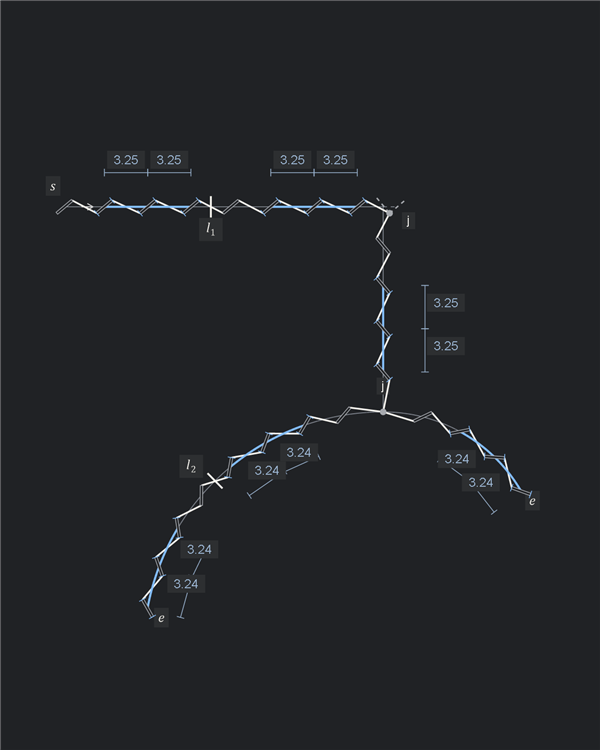
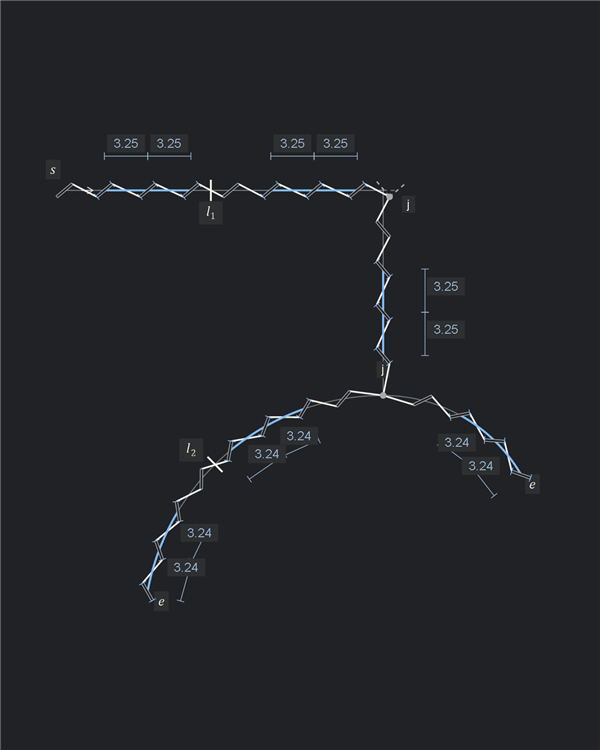
Label model solution stages and reveal repeated features together

Changed region(s): [[0.09, 0.184, 0.9, 0.828], [0.72, 0.368, 0.78, 0.4907]]

diff --git a/examples/illustrated/README.md b/examples/illustrated/README.md
@@ -160,6 +160,8 @@ Two fixed arms meet at $6^\circ$. Two outer pairs pass, the next leaves only $0.
 
 `ILL-MODEL-SOLUTION` combines L1 on a straight arm, a two-arm corner, a curved T junction and L2 on its left curved arm, at $p=3\,\mathrm{mm}$. Reserve endpoint slits, both landmark pairs, corner neighbours and the T's three nominal neighbours before fitting.
 
+Label the five steps in one consistent position: **Mark landmarks**, **Fixed landmark pairs**, **Junctions**, **Free spans**, **Redistribute**. Reveal both landmarks together, then both pairs together. Construct the junctions in parallel, with real neighbours preceding virtual slits and shared holes. Identify all free spans together and redistribute their residuals simultaneously.
+
 Three straight free spans each measure $9.50\,\mathrm{mm}$ and fit with one nominal gap and two $3.25\,\mathrm{mm}$ gaps. Three circular free spans each have $9.50\,\mathrm{mm}$ arc length; their adjusted chords are approximately $3.24\,\mathrm{mm}$. Span dimensions follow the arcs; individual gap dimensions measure chords. Red guide segments identify the residuals; blue segments follow the adjusted guides.
 
 Every frame runs at half speed, including the $0.6\,\mathrm{s}$ fade and eight-second thread hold. No final clearance annotation. Independent checks still cover fixed openings, chord lengths and all-pairs clearance at slit width $0.3\,\mathrm{mm}$, hole diameter $0.5\,\mathrm{mm}$ and margin $0.2\,\mathrm{mm}$. This is an analytic illustration, not native CAD output.
